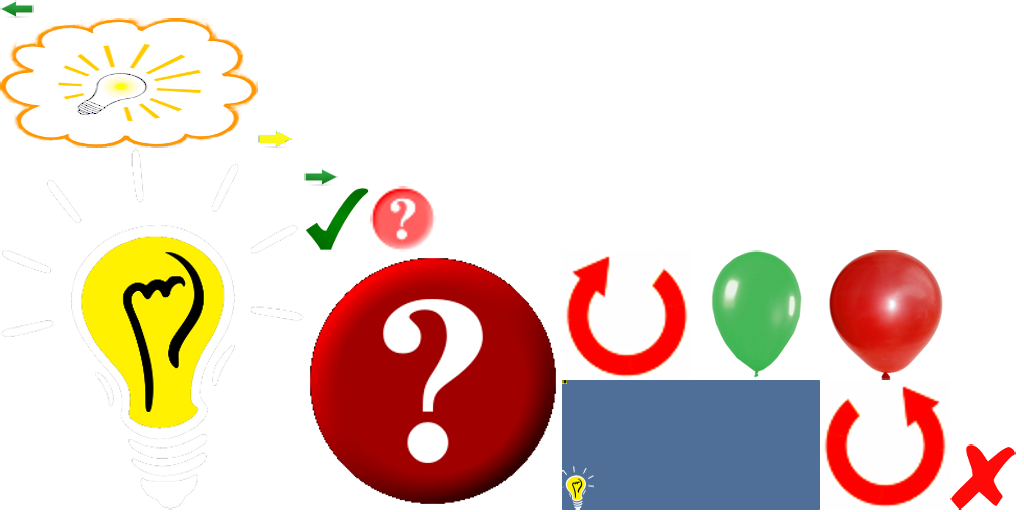
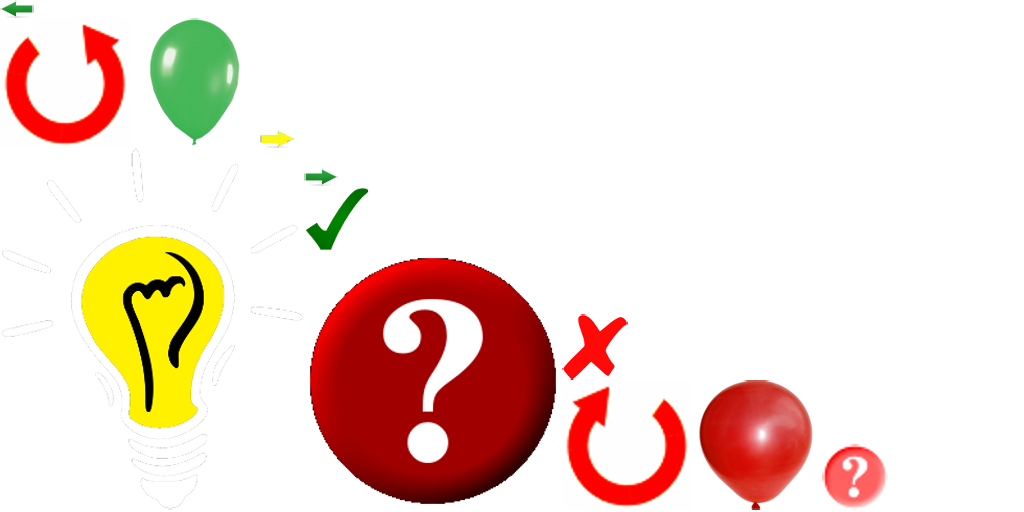
explanation simplified and streamlined - looks better now.

diff --git a/ScienceEngine/src/com/mazalearn/scienceengine/tutor/ImageMessageBox.java b/ScienceEngine/src/com/mazalearn/scienceengine/tutor/ImageMessageBox.java
@@ -18,19 +18,25 @@ import com.mazalearn.scienceengine.app.utils.ScreenUtils;
 public class ImageMessageBox extends TextButton {
   
   private TextButton nextButton, prevButton;
-  protected static final int SCALE = Math.round(3f * ScreenComponent.getFontSize());
+  private int scale = Math.round(3f * ScreenComponent.getFontSize());
   private Button closeButton;
   private TextureRegionDrawable background;
+  private TextButtonStyle textButtonStyle;
+  private float padding[] = new float[] {0.15f, 0.12f, 0.1f, 0.1f};
 
   public ImageMessageBox(Skin skin, String textureName, final Actor parentActor) {
     super("", skin);
-    background = new TextureRegionDrawable(ScienceEngine.getTextureRegion(textureName));
-    setBackground(background);
+    if (textureName != null) {
+      background = new TextureRegionDrawable(ScienceEngine.getTextureRegion(textureName));
+      setBackground(background);
+      textButtonStyle = new TextButtonStyle(skin.get("clear", TextButtonStyle.class));
+    } else {
+      textButtonStyle = new TextButtonStyle(skin.get(TextButtonStyle.class));      
+    }
     getLabel().setWrap(true);
-    TextButtonStyle tbs = new TextButtonStyle(skin.get("clear", TextButtonStyle.class));
-    tbs.fontColor = Color.BLACK;
-    tbs.font = skin.getFont("default-small");
-    setStyle(tbs);
+    setFontColor(Color.BLACK);
+    textButtonStyle.font = skin.getFont("default-small");
+    setStyle(textButtonStyle);
     setWidth(250);
     setHeight(250);
     setPosition(ScreenComponent.ImageMessageBox.getX(getWidth()),
@@ -81,8 +87,21 @@ public class ImageMessageBox extends TextButton {
     });
   }
 
+  public void setFontColor(Color color) {
+    textButtonStyle.fontColor = color;
+  }
+
+  public void setPaddingAndScale(float top, float left, float bottom, float right, float scale) {
+    padding[0] = top;
+    padding[1] = left;
+    padding[2] = bottom;
+    padding[3] = right;
+    this.scale = Math.round(scale * ScreenComponent.getFontSize());
+  }
+
   @Override
   public void drawBackground(SpriteBatch batch, float parentAlpha) {
+    if (background == null) return;
     getBackground().draw(batch, getX()+5, getY()+5, getWidth()-10, getHeight()-10);
   }
 
@@ -95,11 +114,13 @@ public class ImageMessageBox extends TextButton {
   }
 
   public void setTextAndResize(String text) {
-    setBackground(background);
+    if (background != null) {
+      setBackground(background);
+    }
     // Set size in a 3:1 aspect ratio
     float semiPerimeter = (float) Math.sqrt(text.length());
-    float h = semiPerimeter * SCALE / 4 + 30; // To hold Buttons
-    float w = semiPerimeter * SCALE * 3 / 4 + 40;
+    float h = semiPerimeter * scale / 4 + 30; // To hold Buttons
+    float w = semiPerimeter * scale * 3 / 4 + 40;
     if (w > ScreenComponent.VIEWPORT_WIDTH * 0.9f) {
       w = ScreenComponent.VIEWPORT_WIDTH * 0.9f;
       h *= 1.1f;
@@ -107,15 +128,15 @@ public class ImageMessageBox extends TextButton {
     ScreenComponent.scaleSize(this, w, h);
     setSize(w, h);
     super.setText(text);
-    getCell(getLabel()).pad(0.15f * h, 0.12f * w, 0.1f *h, 0.1f * w);
+    getCell(getLabel()).pad(padding[0] * h, padding[1] * w, padding[2] * h, padding[3] * w);
     getLabel().setAlignment(Align.center, Align.left);
     positionButtons();
   }
 
   private void positionButtons() {
-    closeButton.setPosition(getWidth() - 2 * closeButton.getWidth(), getHeight() - closeButton.getHeight());
-    nextButton.setPosition(getWidth() / 2 + nextButton.getWidth() / 2, 5);
-    prevButton.setPosition(getWidth() / 2 - 2 * prevButton.getWidth() / 2, 5);
+    closeButton.setPosition(getWidth() - closeButton.getWidth(), getHeight() - closeButton.getHeight());
+    nextButton.setPosition(getWidth() / 2 + nextButton.getWidth() / 2, -5);
+    prevButton.setPosition(getWidth() / 2 - 2 * prevButton.getWidth() / 2, -5);
   }
 
   public void setImageAndResize(TextureRegionDrawable drawable) {

diff --git a/ScienceEngine/src/com/mazalearn/scienceengine/tutor/ExplanationBox.java b/ScienceEngine/src/com/mazalearn/scienceengine/tutor/ExplanationBox.java
@@ -2,11 +2,13 @@ package com.mazalearn.scienceengine.tutor;
 
 import com.badlogic.gdx.graphics.g2d.TextureRegion;
 import com.badlogic.gdx.scenes.scene2d.InputEvent;
+import com.badlogic.gdx.scenes.scene2d.ui.Image;
 import com.badlogic.gdx.scenes.scene2d.ui.Skin;
 import com.badlogic.gdx.scenes.scene2d.ui.TextButton;
 import com.badlogic.gdx.scenes.scene2d.utils.ClickListener;
 import com.badlogic.gdx.scenes.scene2d.utils.TextureRegionDrawable;
 import com.mazalearn.scienceengine.ScienceEngine;
+import com.mazalearn.scienceengine.ScreenComponent;
 
 public class ExplanationBox extends ImageMessageBox {
 
@@ -16,7 +18,7 @@ public class ExplanationBox extends ImageMessageBox {
   private boolean hasRevisionRefs;
   
   public ExplanationBox(final TutorHelper tutorHelper, Skin skin, String textureName) {
-    super(skin, textureName, null);
+    super(skin, null, null);
     getNextButton().addListener(new ClickListener() {
       @Override 
       public void clicked (InputEvent event, float x, float y) {
@@ -31,6 +33,10 @@ public class ExplanationBox extends ImageMessageBox {
         showExplanation();
       }            
     });
+    Image themeImage = new Image(ScienceEngine.getTextureRegion(textureName));
+    addActor(themeImage);
+    themeImage.setPosition(0, 0);
+    themeImage.setSize(ScreenComponent.getScaledX(30), ScreenComponent.getScaledX(30));
     reviseButton = new TextButton("Revise This", skin);
     addActor(reviseButton);
     reviseButton.setVisible(false);

diff --git a/ScienceEngine-ios/scienceengine-ios/IosPlatformAdapter.cs b/ScienceEngine-ios/scienceengine-ios/IosPlatformAdapter.cs
@@ -68,12 +68,14 @@ namespace scienceengineios
       priceObserver = NSNotificationCenter.DefaultCenter.AddObserver (InAppPurchaseManager.InAppPurchaseManagerTransactionSucceededNotification, 
       (notification) => {
         billing.purchaseCallback(sku);
+        NSNotificationCenter.DefaultCenter.RemoveObserver (priceObserver);
       });
 
       requestObserver = NSNotificationCenter.DefaultCenter.AddObserver (InAppPurchaseManager.InAppPurchaseManagerRequestFailedNotification, 
                                                                        (notification) => {
         Console.WriteLine ("Request Failed");
         billing.purchaseCallback(null);
+        NSNotificationCenter.DefaultCenter.RemoveObserver (requestObserver);
       });
       
       iap.PurchaseProduct (sku.toProductId());
@@ -109,6 +111,7 @@ namespace scienceengineios
 					    product.LocalizedDescription, product.LocalizedTitle, product.Price.ToString ());
 					inventory.addSkuDetails(skuDetails);
 				}
+        NSNotificationCenter.DefaultCenter.RemoveObserver (priceObserver);
 				billing.inventoryCallback(inventory);
 			});
 			// only if we can make payments, request the prices

diff --git a/ScienceEngine/src/com/mazalearn/scienceengine/ScreenComponent.java b/ScienceEngine/src/com/mazalearn/scienceengine/ScreenComponent.java
@@ -27,7 +27,7 @@ public enum ScreenComponent implements IComponentType, IHelpComponent {
   McqOption(XAlign.CENTER, 0, YAlign.MIDDLE, 100, 0, 0, -1, Color.YELLOW, false, false), 
   TimeTracker(XAlign.LEFT, 5, YAlign.BOTTOM, 2, 0, 0, -1, Color.CLEAR, false, false), 
   McqProgressInfo(XAlign.RIGHT, -40, YAlign.TOP, -32, 60, 40, -1, Color.YELLOW, false, false), 
-  Hint(XAlign.RIGHT, -5, YAlign.TOP, -32, 115, 60, -1, Color.YELLOW, false, false), 
+  Hint(XAlign.RIGHT, -5, YAlign.TOP, -32, 115, 70, -1, Color.YELLOW, false, false), 
   ;
   
   enum XAlign { LEFT(0), CENTER(800 / 2), RIGHT(800);

diff --git a/ScienceEngine/src/com/mazalearn/scienceengine/tutor/TutorHelper.java b/ScienceEngine/src/com/mazalearn/scienceengine/tutor/TutorHelper.java
@@ -85,7 +85,9 @@ public class TutorHelper extends Group {
     
     hinter = new Hinter(skin);
     this.addActor(hinter);
-    this.addActor(explanation = new ExplanationBox(this, skin, "explanation2"));
+    this.addActor(explanation = new ExplanationBox(this, skin, "idea"));
+    explanation.setFontColor(Color.WHITE);
+    explanation.setPaddingAndScale(0.10f, 0.05f, 0.15f, 0.05f, 2f);
     
     timeTracker = (TimeTracker) science2DView.findActor(ScreenComponent.TimeTracker.name());
     if (timeTracker != null) {

diff --git a/ScienceEngine-desktop/src/com/mazalearn/scienceengine/Main.java b/ScienceEngine-desktop/src/com/mazalearn/scienceengine/Main.java
@@ -11,7 +11,7 @@ public class Main {
 		LwjglApplicationConfiguration cfg = new LwjglApplicationConfiguration();
 		cfg.title = "ScienceEngine";
 		cfg.useGL20 = true;
-		Device device = Device.IPad;
+		Device device = Device.Android;
 		cfg.width = device.width;
 		cfg.height = device.height;
 		
